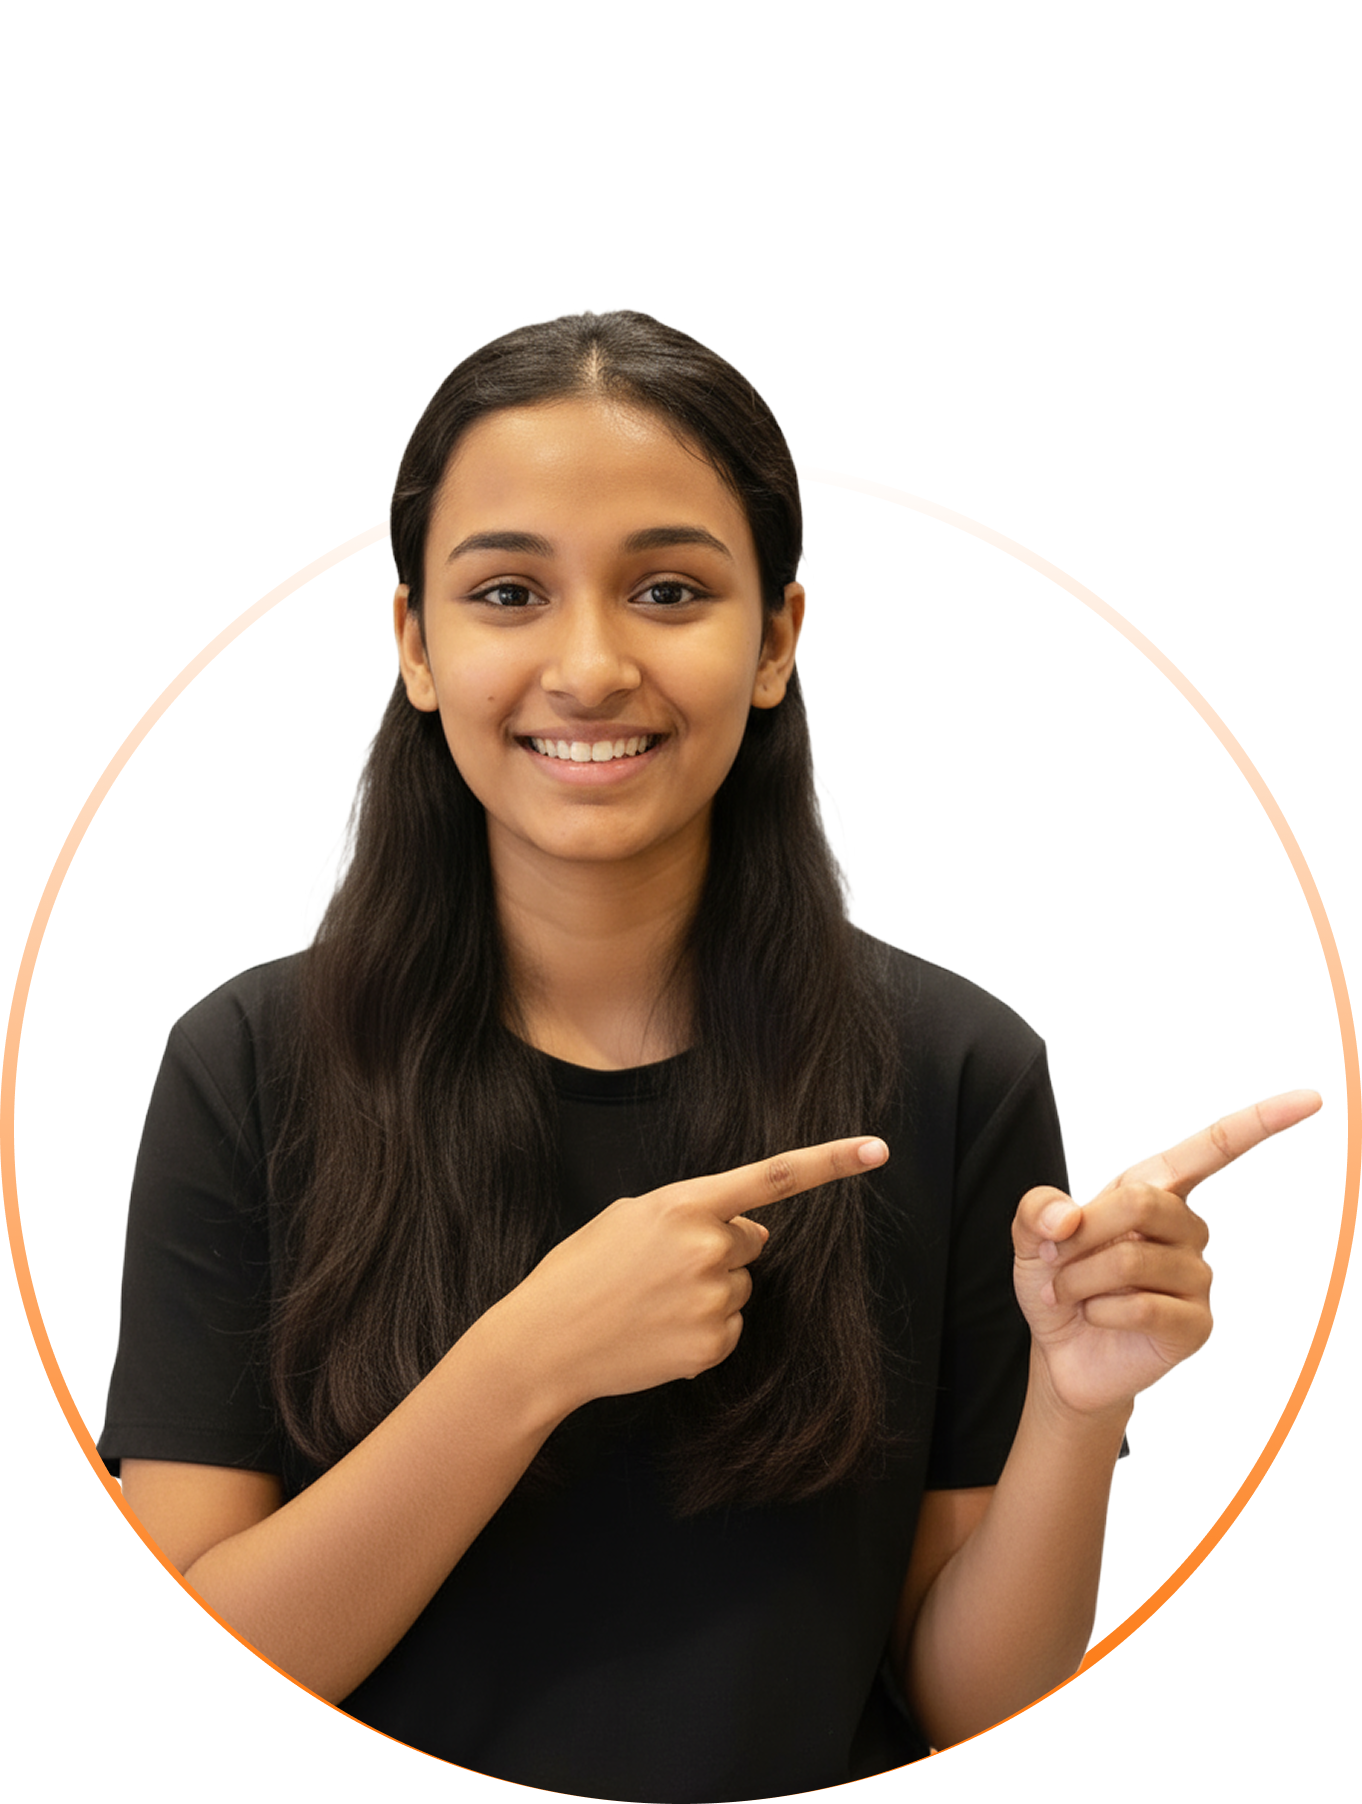
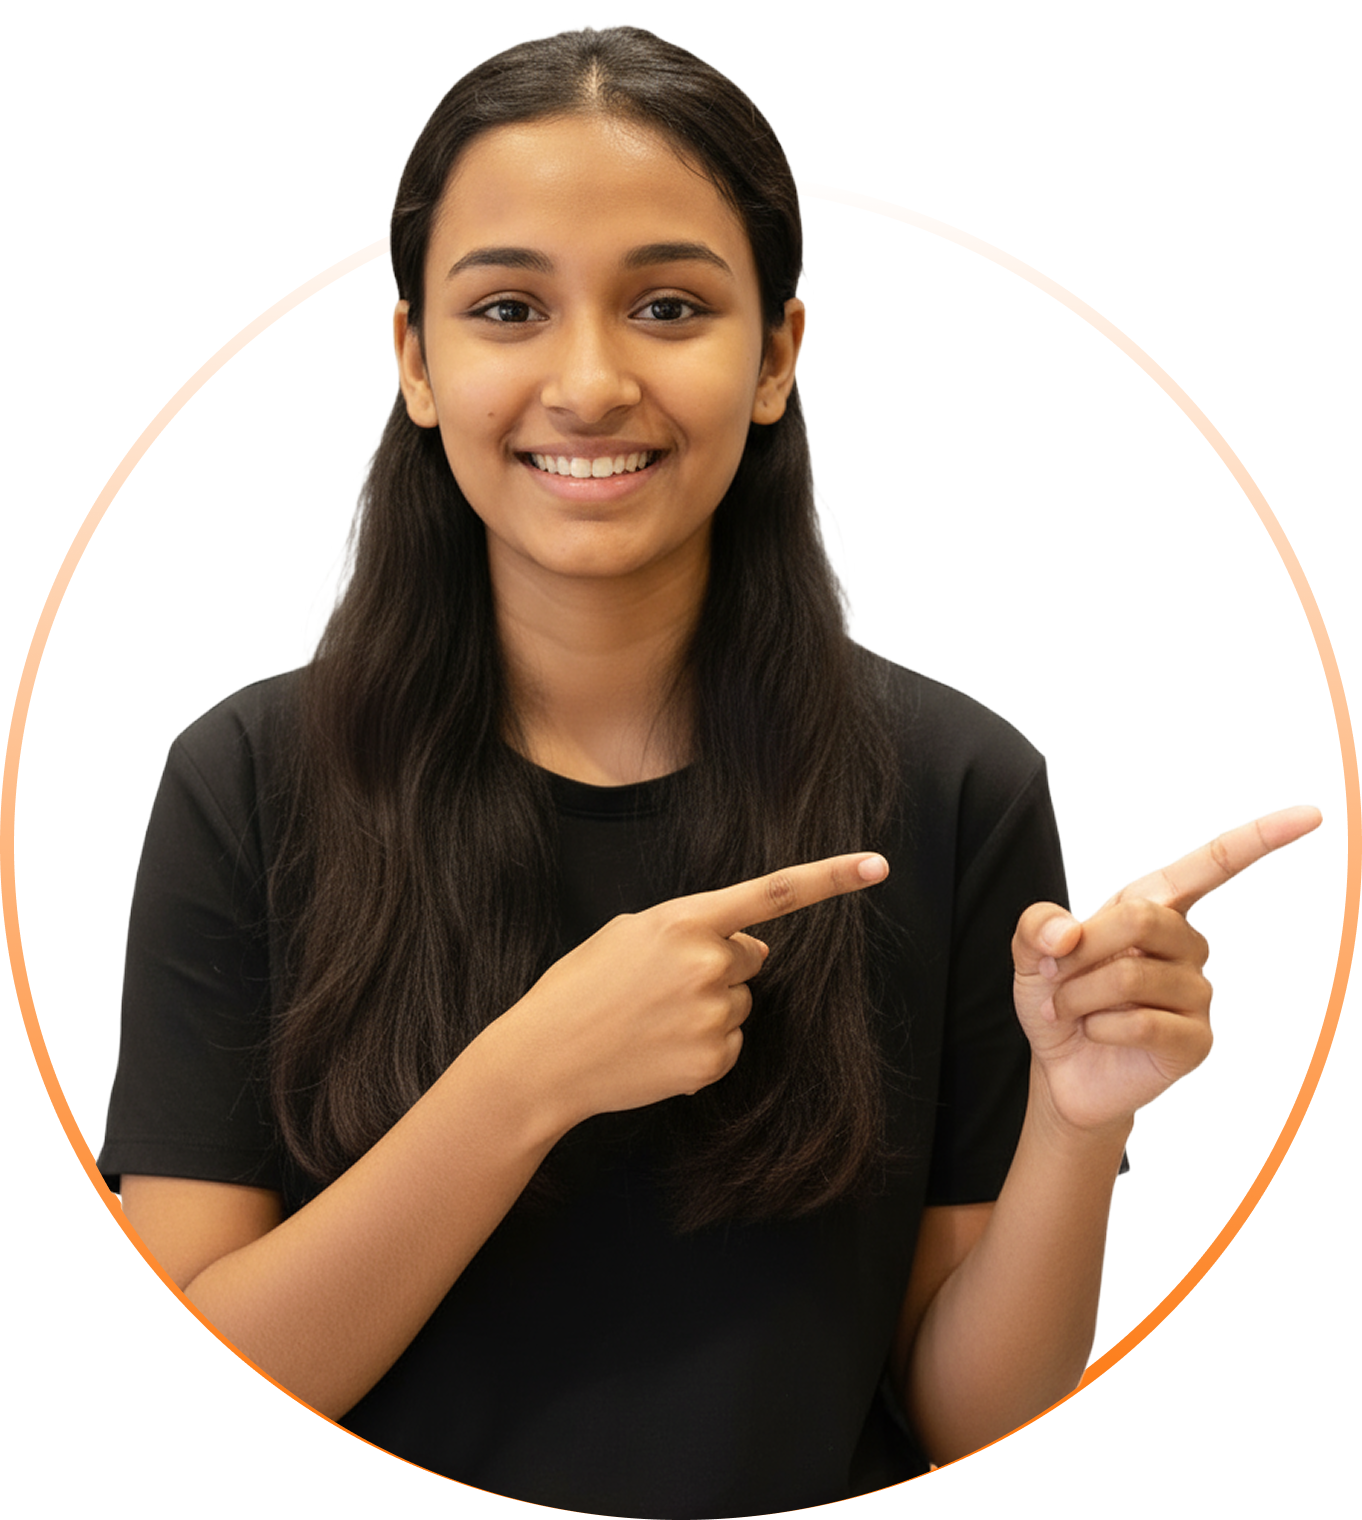
changes in hero and about me section

diff --git a/src/components/AboutMe.jsx b/src/components/AboutMe.jsx
@@ -1,54 +1,35 @@
 import React from 'react'
-import { useEffect, useRef, useState } from "react";
-import { gsap } from "gsap";
+import Image from 'next/image'
+import Heading from './common/Heading'
+import { KNOWLEDGE } from '@/utils/helper'
 
 const AboutMe = () => {
-    const aboutRef = useRef(null);
-    useEffect(() => {
-        // GSAP animations on scroll for About Me section
-        gsap.from(aboutRef.current, {
-            opacity: 0,
-            x: -100,
-            duration: 1,
-            ease: "power3.out",
-            scrollTrigger: {
-                trigger: aboutRef.current,
-                start: "top 80%",
-            },
-        });
-    }, []);
   return (
-          <div className="max-w-6xl mx-auto px-8 py-16" ref={aboutRef}>
-              <h2 className="text-3xl font-semibold mb-6">About Me</h2>
-              <div className="md:flex md:space-x-12">
-                  <img
-                      src="/profile-pointing.jpg"
-                      alt="Fawzi pointing"
-                      className="w-56 rounded-lg mb-8 md:mb-0"
-                  />
-                  <div>
-                      <p className="mb-8 text-gray-600 max-w-xl leading-relaxed">
-                          Lorem ipsum dolor sit amet consectetur. Tristique amet sed massa nibh lectus metus in. Aliquet donec morbi convallis pretium. Turpis tempus pharetra.
+          <div className="container mx-auto px-5 pt-[69px] pb-12" >
+              <div className="md:flex justify-between items-center md:space-x-12">
+                 <Image src="/assets/images/png/about-img.png" width={681} height={690} alt='about-me'/>
+              <div>
+                  <Heading>About Me </Heading>
+                  <p className="text-custom-2xl leading-normal max-w-[687px] font-normal tracking-widest pb-[22px]">
+                      I believe a well-crafted website is not just about looks, but about solving real problems for users with intuitive design and smooth interactions.<br></br>
+                      With strong skills in HTML, CSS, JavaScript, React, Next.js, Bootstrap and Tailwind CSS, I enjoy turning creative ideas into fully functional websites that work seamlessly across devices.
+                      What excites me most is bringing designs to life while focusing on performance, accessibility, and user experience.
                       </p>
-                      {/* Skills */}
-                      {[
-                          { name: "Website Design", level: 85 },
-                          { name: "App Design", level: 80 },
-                          { name: "Graphic Design", level: 75 },
-                      ].map(({ name, level }) => (
-                          <div key={name} className="mb-4">
-                              <div className="flex justify-between mb-1 text-sm font-medium">
-                                  <span>{name}</span>
-                                  <span>{level}%</span>
-                              </div>
-                              <div className="w-full bg-gray-200 rounded-full h-2">
-                                  <div
-                                      className="bg-orange-500 h-2 rounded-full"
-                                      style={{ width: `${level}%` }}
-                                  ></div>
-                              </div>
+                  {KNOWLEDGE.map((obj, index) => (
+                      <div key={index} className="mb-4">
+                          <div className="flex justify-between mb-1 text-2xl font-semibold leading-auto py-2">
+                              <span>{obj.title}</span>
+                              <span>{obj.level}%</span>
                           </div>
-                      ))}
+                          <div className="w-full bg-gray-200 rounded-full h-2">
+                              <div
+                                  className="bg-orange-500 h-2 rounded-full"
+                                  style={{ width: `${obj.level}%` }}
+                              ></div>
+                          </div>
+                      </div>
+                  ))}
+
                   </div>
               </div>
           </div>

diff --git a/src/components/Hero.jsx b/src/components/Hero.jsx
@@ -1,20 +1,36 @@
 import React from 'react'
 import Image from 'next/image';
+import Cta from './common/Cta';
+import { SOCIAL_LINKS } from '@/utils/helper';
+import Link from 'next/link';
 
 const Hero = () => {
   return (
     <div>
-          <div className="container mx-auto px-5">
+          <div className="container mx-auto px-5 pt-[120px]">
               <div className="flex  justify-between items-center">
-                  <div className="flex flex-col">
+                  <div className=" flex-col">
                       <h3 className='font-semibold text-2xl leading-normal'>Hi I am </h3>
                       <h4 className='font-semibold text-custom-3xl text-orange'>Bimla Jain</h4>
-                      <h5 className='font-bold leading-120 text-custom-4xl'>Frontend</h5>
-                      <h5 className='font-bold leading-120 text-custom-4xl relative left-[35%]'>Developer</h5>
-                      <p className='text-custom-2xl leading-normal max-w-[607px]'>Lorem ipsum dolor sit amet consectetur. Tristique amet sed massa nibh lectus netus in. Aliquet donec morbi convallis pretium. Turpis tempus pharetra</p>
+                      <h5 className='font-bold leading-none text-custom-4xl'>Frontend</h5>
+                      <h5 className='font-bold leading-none text-custom-4xl relative left-[35%] pb-4'>Developer</h5>
+            <p className='text-custom-2xl leading-normal max-w-[687px] font-normal tracking-widest pb-[22px]'>I'm a passionate Frontend Developer specializing in building responsive, user-friendly, and modern web applications. I have strong skills in HTML, CSS, JavaScript, and React/Next.js.<br></br> My goal is to deliver seamless user experiences by writing clean, efficient code and using best practices in performance, accessibility, and SEO.<br></br>
+              Always eager to learn new technologies, solve challenging problems, and create beautiful digital experiences.</p>
+            <Cta className='!px-14'>Hire Me </Cta>
                   </div>
-                  <div className="flex flex-col">
-                     <Image src="/assets/images/png/hero-img.png" width={595} height={678} alt='hero-img'/>
+                  <div className="flex justify-center items-center flex-col">
+            <Image src="/assets/images/png/hero-img.png" width={595} height={678} alt='hero-img' />
+            <div className="flex gap-6 pt-9">
+              {SOCIAL_LINKS.map((obj, index) => (
+                <Link
+                  className="hover:scale-110 transition-transform duration-300"
+                  href={obj.url}
+                  key={index} target='_blank'
+                >
+                 <Image src={obj.icon} width={32} height={32} alt={obj.alt}/>
+                </Link>
+              ))}
+            </div>
                   </div>
               </div> 
       </div>

diff --git a/src/utils/helper.js b/src/utils/helper.js
@@ -24,3 +24,34 @@ export const NAV_LINKS = [
         title: "Contact",
     },
 ];
+
+export const SOCIAL_LINKS = [
+    {
+        url: "https://www.facebook.com/",
+        icon: "/assets/images/svg/facebook.svg",
+        alt: "facebook",
+    },
+    {
+        url: "https://www.twitter.com/",
+        icon: "/assets/images/svg/twitter.svg",
+        alt: "twitter",
+    },
+    {
+        url: "https://www.instagram.com/",
+        icon: "/assets/images/svg/instagram.svg",
+        alt: "instagram",
+    },
+    {
+        url: "https://www.linkedin.com/",
+        icon: "/assets/images/svg/linkdin.svg",
+        alt: "linkedin",
+    },
+    
+];
+
+export const KNOWLEDGE = [
+    { title: "HTML , CSS", level: 90 },
+    { title: "Javascript", level: 75 },
+    { title: "Bootstrap , tailwind Css", level: 88 },
+    { title: "React/Next.js", level: 80 },
+]

diff --git a/src/components/common/Cta.jsx b/src/components/common/Cta.jsx
@@ -4,7 +4,7 @@ const Cta = ({ children, className = "" }) => {
     return (
         <button data-aos="fade-up"
             aria-label={children}
-            className={`${className} p-[18px] h-[43px] rounded-[5px] bg-orange hover:shadow hover:bg-white hover:text-orange transition-colors ease-linear duration-300 font-roboto text-custom-2xl !leading-none font-normal text-white items-center capitalize cursor-pointer border border-solid border-transparent hover:border-orange`}
+            className={`${className} px-[29px] py-[9.5px] rounded-[5px] bg-orange hover:shadow hover:bg-white hover:text-orange transition-colors ease-linear duration-300  text-custom-2xl font-normal text-white items-center cursor-pointer border border-solid border-transparent hover:border-orange`}
         >
             {children}
         </button>

diff --git a/src/components/common/Heading.jsx b/src/components/common/Heading.jsx
@@ -1,7 +1,7 @@
 const Heading = ({ children, className = "", center }) => {
     return (
         <h2 data-aos="fade-up"
-            className={`${className} font-bold text-2xl sm:text-3xl lg:text-4xl xl:text-5xl !leading-119 text-black ${center ? "mx-auto text-center" : "text-start"
+            className={`${className} font-semibold text-4xl sm:text-5xl lg:text-6xl xl:text-custom-3.5xl leading-normal text-black ${center ? "mx-auto text-center" : "text-start"
                 }`}
         >
             {children}

diff --git a/src/components/common/Header.jsx b/src/components/common/Header.jsx
@@ -1,5 +1,5 @@
 "use client";
-import { NAV_LINKS } from "@/utils/Helper";
+import { NAV_LINKS } from "@/utils/helper";
 import Image from "next/image";
 import Link from "next/link";
 import React, { useEffect, useState } from "react";

diff --git a/src/app/globals.css b/src/app/globals.css
@@ -10,6 +10,7 @@
   --text-custom-xs: 15px;
   --text-custom-2xl: 21px;
   --text-custom-3xl: 32px;
+  --text-custom-3.5xl: 65px;
   --text-custom-4xl: 100px;
 
   /*<==========LINE-HEIGHT==========> */

diff --git a/src/app/layout.js b/src/app/layout.js
@@ -12,7 +12,7 @@ const geistMono = Geist_Mono({
 });
 
 export const metadata = {
-  title: "Create Next App",
+  title: "My Portfolio",
   description: "Generated by create next app",
 };
 
